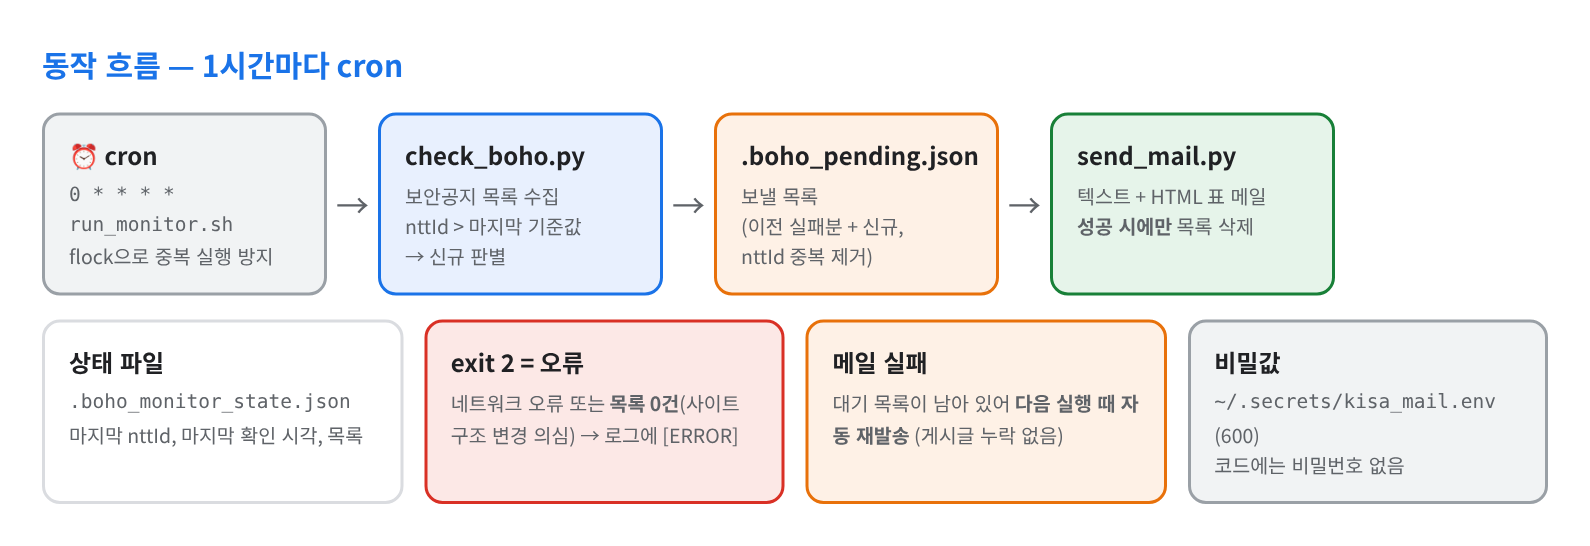
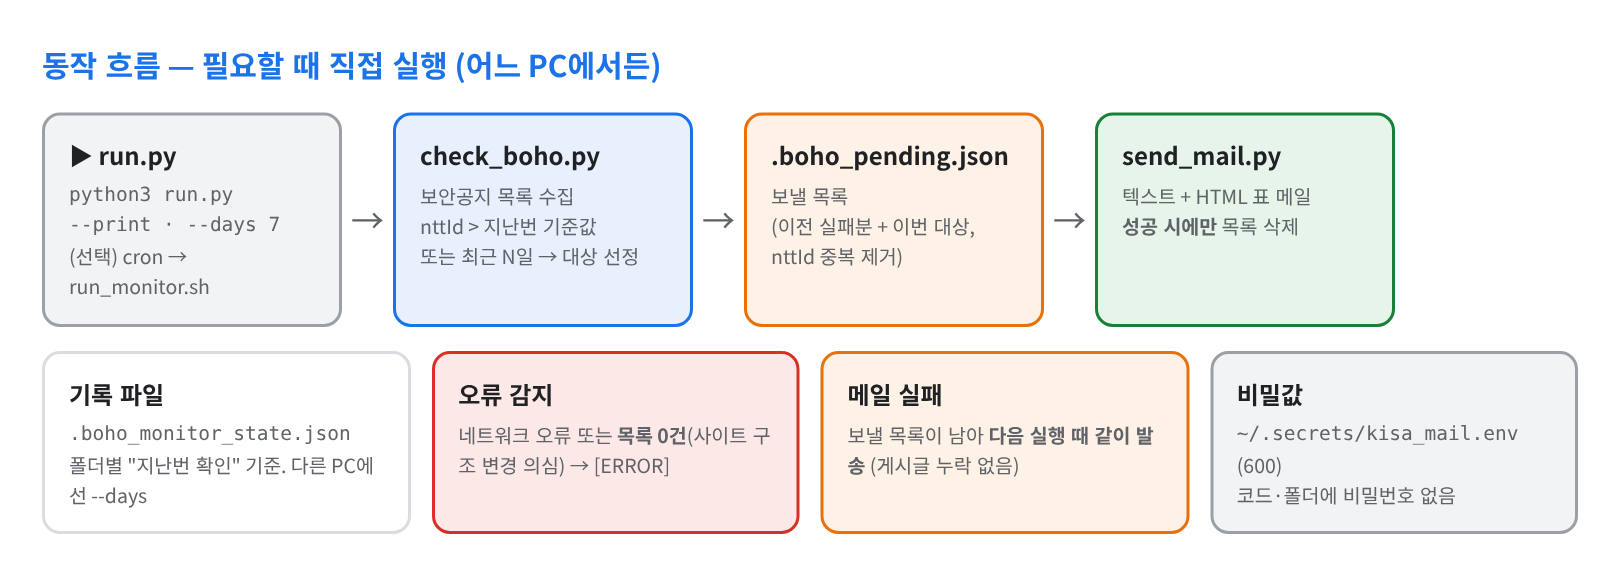
아이디 변경(hwang-taeun) 반영, KISA 스킬 페이지 최신화

Changed region(s): [[0.0308, 0.1868, 0.9862, 0.8718], [0.0308, 0.9029, 0.9862, 0.9341], [0.0308, 0.0934, 0.4006, 0.1557]]

diff --git a/skills/kisa-boho-monitor/index.html b/skills/kisa-boho-monitor/index.html
@@ -1,8 +1,8 @@
 ---
-title: KISA 보호나라 보안공지 자동 모니터링 — Python · cron · SMTP
+title: KISA 보호나라 보안공지 모니터링 — Python · SMTP
 skill_group: 자동화 스크립트
 skill_order: 48
-skill: KISA 보호나라 보안공지를 1시간마다 확인해 새 글을 메일로 알림 — 실패 시 재발송, 비밀값 분리, 오류 감지
+skill: KISA 보호나라 보안공지 새 글을 찾아 메일로 정리 — 어느 PC에서든 실행, 실패 시 재발송, 비밀값 분리, 인증서 검증
 link_label: 보안공지 모니터링 상세
 ---
 <!DOCTYPE html>
@@ -10,8 +10,8 @@ link_label: 보안공지 모니터링 상세
 <head>
   <meta charset="UTF-8" />
   <meta name="viewport" content="width=device-width, initial-scale=1.0"/>
-  <title>KISA 보호나라 보안공지 자동 모니터링 — 황태운</title>
-  <meta name="description" content="KISA 보호나라 보안공지 게시판을 cron으로 1시간마다 확인해 신규 공지를 HTML 표 메일로 알리는 Python 스크립트. 메일 실패 시 재발송, 비밀번호 분리, 사이트 구조 변경 감지, 중복 실행 방지" />
+  <title>KISA 보호나라 보안공지 모니터링 — 황태운</title>
+  <meta name="description" content="KISA 보호나라 보안공지에서 지난번 확인 이후 새 글이나 최근 N일 글을 찾아 HTML 표 메일로 보내는 Python 스크립트. 어느 PC에서든 실행, 메일 실패 시 재발송, 비밀번호 분리, 호스팅 메일 인증서 이름 불일치 해결" />
   <meta name="theme-color" content="#1a73e8" />
   <link rel="icon" href="/favicon.ico" sizes="any" />
   <link rel="icon" href="/favicon.svg" type="image/svg+xml" />
@@ -38,22 +38,23 @@ link_label: 보안공지 모니터링 상세
 
     <header>
       <p class="tagline">업무 자동화 · 보안 운영</p>
-      <h1>KISA 보호나라 보안공지 자동 모니터링</h1>
-      <p class="lead">서버·장비 취약점 대응을 하려면 KISA 보호나라의 보안공지(제품별 보안 업데이트 권고)를 매일 확인해야 합니다. 사람이 들어가서 보다 보면 놓치는 날이 생겨서, <strong>1시간마다 게시판을 확인해 새 글이 올라오면 메일로 알려주는 스크립트</strong>를 Python 표준 라이브러리만으로 만들어 운영하고 있습니다.</p>
+      <h1>KISA 보호나라 보안공지 모니터링</h1>
+      <p class="lead">서버·장비 취약점 대응을 하려면 KISA 보호나라의 보안공지(제품별 보안 업데이트 권고)를 매일 확인해야 합니다. 매번 사이트에 들어가 어디까지 봤는지 기억하는 게 번거로워서, <strong>실행하면 지난번 확인 이후 새 글(또는 최근 N일 글)을 찾아 메일 한 통으로 정리해 주는 스크립트</strong>를 Python 표준 라이브러리만으로 만들었습니다. 설치할 패키지가 없어 Linux · WSL · Windows 어느 PC에서든 폴더째 옮겨 쓰고, 필요하면 cron에 등록해 자동 감시로도 쓸 수 있습니다.</p>
       <p class="note">회사 메일 서버·계정 정보는 페이지에서 뺐고, 아래 메일·로그 화면은 <strong>예시 데이터</strong>로 만든 것입니다.</p>
     </header>
 
     <section>
       <h2>1. 동작 흐름</h2>
       <figure class="screenshot">
-        <img src="images/01-flow.png" alt="cron이 1시간마다 run_monitor.sh 실행, check_boho.py가 목록을 수집해 신규 판별, 보낼 목록 파일에 추가, send_mail.py가 메일 발송 후 성공 시에만 목록 삭제. 오류는 exit 2, 메일 실패 시 다음 실행 때 재발송, 비밀값은 ~/.secrets에 분리" loading="lazy" />
+        <img src="images/01-flow.png" alt="run.py를 직접 실행(선택: cron), check_boho.py가 목록을 수집해 신규 판별, 보낼 목록 파일에 추가, send_mail.py가 메일 발송 후 성공 시에만 목록 삭제. 오류는 exit 2, 메일 실패 시 다음 실행 때 재발송, 비밀값은 ~/.secrets에 분리" loading="lazy" />
         <figcaption>"수집"과 "발송"을 나누고, 그 사이에 보낼 목록 파일을 둬서 메일이 실패해도 게시글이 사라지지 않게 함</figcaption>
       </figure>
       <div class="table-wrap">
         <table>
           <thead><tr><th>파일</th><th>역할</th></tr></thead>
           <tbody>
-            <tr><td><code>run_monitor.sh</code></td><td>cron 진입점. <code>flock</code>으로 중복 실행 방지, 보낼 목록이 있으면 발송 스크립트 실행</td></tr>
+            <tr><td><code>run.py</code></td><td>직접 실행하는 진입점. <code>--print</code>(화면만), <code>--days N</code>(최근 N일)</td></tr>
+            <tr><td><code>run_monitor.sh</code></td><td>(선택) cron 자동 실행용. <code>flock</code>으로 중복 실행 방지</td></tr>
             <tr><td><code>check_boho.py</code></td><td>보안공지 목록 페이지를 받아 번호·제목·날짜·링크 파싱 → 마지막으로 본 글 번호(nttId)보다 큰 글을 신규로 판단</td></tr>
             <tr><td><code>send_mail.py</code></td><td>보낼 목록을 텍스트 + HTML 표 메일로 발송, <strong>성공했을 때만</strong> 목록 삭제</td></tr>
             <tr><td><code>common.py</code></td><td>설정 파일 읽기, TLS 설정, JSON 안전 저장(임시 파일 → 교체)</td></tr>
@@ -80,9 +81,11 @@ link_label: 보안공지 모니터링 상세
           </tbody>
         </table>
       </div>
-      <pre><code>python3 check_boho.py --init    # 처음 1회: 현재 목록을 기준으로 저장
-python3 check_boho.py --list    # 마지막으로 본 목록, 메일 대기 건수
-python3 check_boho.py           # 신규 확인 (cron)</code></pre>
+      <pre><code>python3 run.py                  # 지난번 확인 이후 새 글 → 메일
+python3 run.py --print          # 화면에만 표시 (메일·기록 변경 없음)
+python3 run.py --days 7         # 최근 7일 글 → 메일 (다른 PC에서 처음 쓸 때)
+python3 check_boho.py --list    # 마지막으로 본 목록, 메일 대기 건수</code></pre>
+      <p>"지난번 확인" 기록은 실행한 폴더에 저장되므로 PC마다 따로입니다. 그래서 다른 PC에서는 <code>--days</code>로 기간을 지정합니다. 오래 실행하지 않아 첫 페이지가 모두 새 글이면, 그 이전 글이 더 있을 수 있다고 화면에 알려 줍니다.</p>
     </section>
 
     <section>
@@ -108,7 +111,8 @@ python3 check_boho.py           # 신규 확인 (cron)</code></pre>
             <tr><td>메일 비밀번호</td><td class="before">코드에 직접 작성</td><td class="after">~/.secrets/kisa_mail.env (600)로 분리, 권한이 넓으면 경고</td></tr>
             <tr><td>메일 실패</td><td class="before">기준값을 먼저 올려 실패한 게시글이 다시는 안 보내짐</td><td class="after">보낼 목록에 먼저 저장 → 발송 성공 시에만 삭제, 실패분은 다음 실행 때 신규와 합쳐 재발송</td></tr>
             <tr><td>사이트 구조 변경</td><td class="before">파싱 0건도 "신규 없음"과 같은 exit 1</td><td class="after">exit 2 + <code>[ERROR]</code> 로그로 구분</td></tr>
-            <tr><td>TLS 인증서 검증</td><td class="before">수집·메일 모두 검증 끔</td><td class="after">기본은 검증. 사내 SSL 검사 장비가 있으면 그 루트 CA 파일을 지정, 검증 끄기는 설정으로만</td></tr>
+            <tr><td>TLS 인증서 검증</td><td class="before">수집·메일 모두 검증 끔</td><td class="after">기본은 검증. 메일 서버 이름 불일치는 원인을 찾아 해결 (아래)</td></tr>
+            <tr><td>실행 방식</td><td class="before">한 PC의 cron에 고정</td><td class="after">어느 PC에서든 <code>run.py</code>로 직접 실행, 최근 N일 모드 추가</td></tr>
             <tr><td>중복 실행</td><td class="before">이전 실행이 길어지면 겹쳐 실행</td><td class="after"><code>flock -n</code>으로 건너뜀</td></tr>
             <tr><td>상태 파일</td><td class="before">직접 덮어쓰기 (중단 시 깨질 수 있음)</td><td class="after">임시 파일에 쓰고 <code>os.replace</code>로 교체</td></tr>
             <tr><td>SMTP 접속</td><td class="before">로그인 테스트용 접속 + 발송용 접속 2번</td><td class="after">발송 때 1번. 점검은 <code>--check</code> 옵션으로 따로</td></tr>
@@ -116,11 +120,19 @@ python3 check_boho.py           # 신규 확인 (cron)</code></pre>
           </tbody>
         </table>
       </div>
-      <div class="warn"><code>TLS_VERIFY=0</code>(검증 끄기)로 두면 중간에서 인증서를 바꿔치기해도 알 수 없어, 메일 계정 비밀번호가 노출될 수 있습니다. 사내 SSL 검사 장비 때문에 검증이 실패하면 검증을 끄기보다 그 장비의 루트 CA를 <code>*_CA_FILE</code>에 지정하는 것이 맞습니다.</div>
+      <h3>메일 서버 인증서 이름 불일치 — 검증을 끄지 않고 해결</h3>
+      <p>인증서 검증을 켜자 회사 메일 서버(<code>mail.회사도메인</code>) 접속이 <code>Hostname mismatch</code>로 실패했습니다. 처음 버전이 검증을 꺼 둔 이유도 이것이었습니다. 원인을 확인한 순서는 다음과 같습니다.</p>
+      <ol>
+        <li>발급 기관 검증만 켜고 인증서 내용을 보니 정식 인증서(Sectigo)인데 이름이 <code>*.호스팅업체.net</code></li>
+        <li>IP 역방향 조회 → 메일 호스팅 업체의 공용 서버. 회사 도메인은 그 서버를 가리키는 <strong>별칭</strong>일 뿐</li>
+        <li>같은 IP를 가리키는 호스팅 업체 쪽 고객사 주소(<code>회사명.호스팅업체.net</code>)를 찾아 <strong>이름·발급 기관 모두 검증 통과</strong> 확인</li>
+        <li><code>SMTP_HOST</code>만 그 주소로 바꿔 검증을 켠 채로 발송</li>
+      </ol>
+      <div class="warn">검증을 끄면(<code>TLS_VERIFY=0</code>) 중간에서 인증서를 바꿔치기해도 알 수 없어, 로그인할 때 메일 계정 비밀번호가 노출될 수 있습니다. 이름 불일치는 대부분 이렇게 "어느 이름으로 접속해야 하는지"의 문제라, 끄기 전에 원인을 확인하는 것이 맞습니다.</div>
     </section>
 
     <section>
-      <h2>5. 설치와 운영</h2>
+      <h2>5. 설치와 사용</h2>
       <pre><code>APP=$HOME/kisa_Craw
 cd "$APP"
 mkdir -p ~/.secrets logs &amp;&amp; chmod 700 ~/.secrets
@@ -128,12 +140,14 @@ cp kisa_mail.env.example ~/.secrets/kisa_mail.env &amp;&amp; chmod 600 ~/.secret
 vi ~/.secrets/kisa_mail.env              # SMTP 서버·계정·받는 사람
 
 python3 send_mail.py --check             # SMTP 로그인만 확인 (발송 안 함)
-python3 check_boho.py --init             # 기준값 저장
-crontab -e
-0 * * * * /home/taeun/kisa_Craw/run_monitor.sh &gt;&gt; /home/taeun/kisa_Craw/logs/monitor.log 2&gt;&amp;1</code></pre>
+python3 run.py --days 3 --print          # 최근 3일 글 미리보기
+python3 run.py                           # 새 글 → 메일
+
+# (선택) 자동 실행: crontab
+# 0 * * * * $APP/run_monitor.sh &gt;&gt; $APP/logs/monitor.log 2&gt;&amp;1</code></pre>
       <figure class="screenshot">
         <img src="images/03-log.png" alt="로그 예시: 9시 신규 2건 발견 후 메일 발송 실패, 10시 신규 1건과 합쳐 3건 발송 완료, 12시 게시글 0건 파싱 오류" loading="lazy" />
-        <figcaption>9시에 메일이 실패한 2건이 10시 신규 1건과 합쳐져 3건으로 재발송된 흐름 (예시)</figcaption>
+        <figcaption>cron으로 자동 실행할 때의 로그 예시 — 9시에 메일이 실패한 2건이 10시 신규 1건과 합쳐져 3건으로 재발송</figcaption>
       </figure>
       <pre><code>grep ERROR logs/monitor.log | tail      # 실패만 보기
 python3 send_mail.py --dry-run          # 대기 중인 메일 내용을 발송 없이 확인</code></pre>
@@ -146,9 +160,10 @@ python3 send_mail.py --dry-run          # 대기 중인 메일 내용을 발송 
         <table>
           <thead><tr><th>한계</th><th>다음 단계</th></tr></thead>
           <tbody>
-            <tr><td>목록 <strong>첫 페이지만</strong> 확인 — 1시간 안에 한 페이지보다 많은 글이 올라오면 일부 누락 가능</td><td>신규가 페이지 전체를 채우면 다음 페이지까지 확인</td></tr>
+            <tr><td>목록 <strong>첫 페이지만</strong> 확인 — 오래 실행하지 않으면 그 이전 새 글이 빠질 수 있음 (현재는 화면에 경고만)</td><td>첫 페이지가 모두 새 글이면 다음 페이지까지 자동 확인</td></tr>
             <tr><td>HTML을 정규식으로 파싱 — 사이트 개편 시 수정 필요 (대신 exit 2로 바로 알 수 있음)</td><td>연속 오류 시 관리자에게 별도 알림 메일</td></tr>
             <tr><td>영향 제품·버전은 원문을 직접 봐야 함</td><td>원문 본문에서 제품명을 뽑아 <strong>우리 자산 목록과 대조</strong>해 해당 여부 표시</td></tr>
+            <tr><td>"지난번 확인" 기록이 PC마다 따로</td><td>기록 파일을 동기화 폴더(NAS 등)에 두는 옵션</td></tr>
             <tr><td>메일로만 알림</td><td>Slack·Teams 웹훅 추가</td></tr>
           </tbody>
         </table>

diff --git a/index.html b/index.html
@@ -179,11 +179,11 @@
       <ul class="contact-list">
         <li>
           <span>GitHub</span>
-          <a href="https://github.com/Taeun-Hwang" target="_blank" rel="noopener">github.com/Taeun-Hwang</a>
+          <a href="https://github.com/hwang-taeun" target="_blank" rel="noopener">github.com/hwang-taeun</a>
         </li>
         <li>
           <span>포트폴리오</span>
-          <a href="https://github.com/Taeun-Hwang/taeun-hwang.github.io" target="_blank" rel="noopener">taeun-hwang.github.io 저장소</a>
+          <a href="https://github.com/hwang-taeun/hwang-taeun.github.io" target="_blank" rel="noopener">hwang-taeun.github.io 저장소</a>
         </li>
       </ul>
     </section>

diff --git a/README.md b/README.md
@@ -11,10 +11,10 @@ Linux·Windows Server 운영을 바탕으로 **보안 점검·하드닝, 장애 
 
 | 페이지 | 주소 |
 |--------|------|
-| 메인 | https://taeun-hwang.github.io/ |
-| 스킬 상세 | https://taeun-hwang.github.io/skill.html |
-| 대표 프로젝트 | https://taeun-hwang.github.io/projects.html |
-| 이력서 (PDF) | https://taeun-hwang.github.io/assets/resume.pdf |
+| 메인 | https://hwang-taeun.github.io/ |
+| 스킬 상세 | https://hwang-taeun.github.io/skill.html |
+| 대표 프로젝트 | https://hwang-taeun.github.io/projects.html |
+| 이력서 (PDF) | https://hwang-taeun.github.io/assets/resume.pdf |
 
 ---
 
@@ -23,28 +23,28 @@ Linux·Windows Server 운영을 바탕으로 **보안 점검·하드닝, 장애 
 ### OS & 시스템 관리
 - **Linux**: Rocky 9, RHEL, CentOS, Ubuntu / **Windows Server**: 2016, 2019, 2022, AD·Group Policy
 - WSL 2, WinPE, DISM, 레지스트리 자동화 / KVM·libvirt, OpenStack VM 운영
-- [네트워크 본딩 (nmcli·nmtui, active-backup·라운드로빈, 스위치 이중화)](https://taeun-hwang.github.io/skills/network-bonding/)
-- [rsync 데이터 이관 (데몬 모듈, 증분 동기화, 최종 전환·검증)](https://taeun-hwang.github.io/skills/rsync-migration/)
-- [사내 NTP 시간 서버 (chrony · W32Time, ntpd와 차이)](https://taeun-hwang.github.io/skills/ntp-chrony/)
-- [DB 이전 (MySQL 문자셋 유지 덤프 · MS-SQL .bak 복원·고아 사용자)](https://taeun-hwang.github.io/skills/db-migration/)
-- [백업 솔루션 운영 (NetVault · NetBackup 클라이언트 연동·복원)](https://taeun-hwang.github.io/skills/backup-netvault-netbackup/)
+- [네트워크 본딩 (nmcli·nmtui, active-backup·라운드로빈, 스위치 이중화)](https://hwang-taeun.github.io/skills/network-bonding/)
+- [rsync 데이터 이관 (데몬 모듈, 증분 동기화, 최종 전환·검증)](https://hwang-taeun.github.io/skills/rsync-migration/)
+- [사내 NTP 시간 서버 (chrony · W32Time, ntpd와 차이)](https://hwang-taeun.github.io/skills/ntp-chrony/)
+- [DB 이전 (MySQL 문자셋 유지 덤프 · MS-SQL .bak 복원·고아 사용자)](https://hwang-taeun.github.io/skills/db-migration/)
+- [백업 솔루션 운영 (NetVault · NetBackup 클라이언트 연동·복원)](https://hwang-taeun.github.io/skills/backup-netvault-netbackup/)
 
 ### 웹 & 네트워크 서비스
 - Apache, Nginx, IIS, PHP, MariaDB, SSL 인증서 / 리버스 프록시(SSL 종료), 가상호스트
 - Let's Encrypt (HTTP-01 / DNS-01, acme.sh), Cloudflare DNS API 자동화
-- [DNS 레코드 정리](https://taeun-hwang.github.io/skills/dns-records/) · [SPF 메일 인증](https://taeun-hwang.github.io/skills/spf-mail-auth/)
-- [사내 재귀 DNS (Unbound · Windows DNS)](https://taeun-hwang.github.io/skills/dns-resolver/)
-- [Ollama 로컬 LLM 구축 및 웹 연동](https://taeun-hwang.github.io/skills/ollama/)
+- [DNS 레코드 정리](https://hwang-taeun.github.io/skills/dns-records/) · [SPF 메일 인증](https://hwang-taeun.github.io/skills/spf-mail-auth/)
+- [사내 재귀 DNS (Unbound · Windows DNS)](https://hwang-taeun.github.io/skills/dns-resolver/)
+- [Ollama 로컬 LLM 구축 및 웹 연동](https://hwang-taeun.github.io/skills/ollama/)
 
 ### 고가용성(HA) & 컨테이너
 - MariaDB Galera, Pacemaker, Podman·kind (대표 프로젝트 참고)
 
 ### 보안 점검·하드닝
 - KISA 기준 취약점 점검·조치 (Linux·Windows Server)
-- [PAM 비밀번호 정책 (authselect, faillock)](https://taeun-hwang.github.io/skills/pam-password-policy/)
-- [계정별 접속 IP 제한 (pam_access, SSH·FTP)](https://taeun-hwang.github.io/skills/pam-access/)
-- [방화벽·IPS 정책 운영 (Palo Alto · SRX · Snort)](https://taeun-hwang.github.io/skills/firewall-ips/)
-- [Coraza + Caddy WAF (ModSecurity 대안)](https://taeun-hwang.github.io/skills/coraza-caddy-waf/)
+- [PAM 비밀번호 정책 (authselect, faillock)](https://hwang-taeun.github.io/skills/pam-password-policy/)
+- [계정별 접속 IP 제한 (pam_access, SSH·FTP)](https://hwang-taeun.github.io/skills/pam-access/)
+- [방화벽·IPS 정책 운영 (Palo Alto · SRX · Snort)](https://hwang-taeun.github.io/skills/firewall-ips/)
+- [Coraza + Caddy WAF (ModSecurity 대안)](https://hwang-taeun.github.io/skills/coraza-caddy-waf/)
 - 로그 파일 권한 최소화, RDP 세션 타임아웃 (레지스트리/GPO)
 
 ### 로그 모니터링·알림
@@ -52,13 +52,13 @@ Linux·Windows Server 운영을 바탕으로 **보안 점검·하드닝, 장애 
 - RDP 접근 감지 → 문자 알림 (PowerShell)
 
 ### 장애 대응
-- [Linux 장애 처리 (부팅·파일시스템·서비스)](https://taeun-hwang.github.io/skills/linux-troubleshooting/)
-- [RAID Write Back 캐시로 인한 /boot 손상 복구](https://taeun-hwang.github.io/skills/raid-boot-recovery/)
+- [Linux 장애 처리 (부팅·파일시스템·서비스)](https://hwang-taeun.github.io/skills/linux-troubleshooting/)
+- [RAID Write Back 캐시로 인한 /boot 손상 복구](https://hwang-taeun.github.io/skills/raid-boot-recovery/)
 
 ### 자동화 스크립트
 - Bash(백업, 로그 순환, 서비스·포트 점검), PowerShell(이벤트 감시, 시간 동기화), Python
 - rsync, inotify, systemd 타이머, crontab
-- [Ansible 서버 자동화](https://taeun-hwang.github.io/skills/ansible/) · [프라이빗 Git 서버 (Apache Smart HTTP)](https://taeun-hwang.github.io/skills/git-server/)
+- [Ansible 서버 자동화](https://hwang-taeun.github.io/skills/ansible/) · [프라이빗 Git 서버 (Apache Smart HTTP)](https://hwang-taeun.github.io/skills/git-server/)
 
 ---
 
@@ -66,23 +66,23 @@ Linux·Windows Server 운영을 바탕으로 **보안 점검·하드닝, 장애 
 
 | 프로젝트 | 설명 |
 |----------|------|
-| [중앙 로그 서버 구축](https://taeun-hwang.github.io/projects/log-server/) | rsyslog + Windows 이벤트 수집기로 호스트·로그별 일자 파일 보관 |
-| [폐쇄망 Windows 패치 서버](https://taeun-hwang.github.io/projects/wsus-offline/) | WSUS export/import 반입, 허용 클라이언트 제한, 그룹별 승인 |
-| [서버 장애 SMS 알림](https://taeun-hwang.github.io/projects/server-alert/) | bash 점검 + ELK 중앙 감시 → 알리고/textbee 문자 알림 |
-| [홈서버 구축](https://taeun-hwang.github.io/projects/home-server/) | Cloudflare DNS API DDNS, acme.sh DNS-01로 Synology 인증서 무인 갱신 |
-| [채용공고 모니터링 크롤러](https://taeun-hwang.github.io/projects/recruit-crawler/) | mitmproxy로 내부 API 분석·재현, 신규 공고만 메일 알림 |
-| [SSL 리버스 프록시](https://taeun-hwang.github.io/projects/ssl-proxy/) | SSL 종료·재암호화·로드밸런싱으로 백엔드 단순화 |
-| [ModSecurity WAF 차단 페이지](https://taeun-hwang.github.io/projects/modsecurity-waf/) | 차단 안내 페이지와 감사 로그 연동 |
-| [GeoIP 국가 접근 제어](https://taeun-hwang.github.io/projects/geoip-block/) | ModSecurity GeoIP로 국가 단위 차단 |
-| [AbuseIPDB 기반 악성 IP 차단](https://taeun-hwang.github.io/projects/abuseipdb/) | API로 악성 IP 수집 후 Apache 규칙 자동 갱신 |
-| [중앙 인증 (SSSD + LDAP/AD + RADIUS)](https://taeun-hwang.github.io/projects/central-auth/) | 서버별 로컬 계정 대신 중앙 계정으로 SSH 통합 |
-| [MariaDB Galera HA](https://taeun-hwang.github.io/projects/galera-ha/) | Active-Active DB 이중화 |
-| [Pacemaker 웹 HA](https://taeun-hwang.github.io/projects/pacemaker-ha/) | Pacemaker + httpd 장애 조치 |
-| [Podman · Kubernetes HA](https://taeun-hwang.github.io/projects/podman-kind/) | Podman 컨테이너와 kind 기반 HA 실습 |
-| [CI/CD 배포 자동화](https://taeun-hwang.github.io/projects/cicd-polling/) | 접근제어 환경에서 Gitea + Polling Agent 배포 |
-| [침해사고 메모리 분석](https://taeun-hwang.github.io/projects/memory-forensics/) | IIS 웹 서버 메모리 덤프 분석 |
+| [중앙 로그 서버 구축](https://hwang-taeun.github.io/projects/log-server/) | rsyslog + Windows 이벤트 수집기로 호스트·로그별 일자 파일 보관 |
+| [폐쇄망 Windows 패치 서버](https://hwang-taeun.github.io/projects/wsus-offline/) | WSUS export/import 반입, 허용 클라이언트 제한, 그룹별 승인 |
+| [서버 장애 SMS 알림](https://hwang-taeun.github.io/projects/server-alert/) | bash 점검 + ELK 중앙 감시 → 알리고/textbee 문자 알림 |
+| [홈서버 구축](https://hwang-taeun.github.io/projects/home-server/) | Cloudflare DNS API DDNS, acme.sh DNS-01로 Synology 인증서 무인 갱신 |
+| [채용공고 모니터링 크롤러](https://hwang-taeun.github.io/projects/recruit-crawler/) | mitmproxy로 내부 API 분석·재현, 신규 공고만 메일 알림 |
+| [SSL 리버스 프록시](https://hwang-taeun.github.io/projects/ssl-proxy/) | SSL 종료·재암호화·로드밸런싱으로 백엔드 단순화 |
+| [ModSecurity WAF 차단 페이지](https://hwang-taeun.github.io/projects/modsecurity-waf/) | 차단 안내 페이지와 감사 로그 연동 |
+| [GeoIP 국가 접근 제어](https://hwang-taeun.github.io/projects/geoip-block/) | ModSecurity GeoIP로 국가 단위 차단 |
+| [AbuseIPDB 기반 악성 IP 차단](https://hwang-taeun.github.io/projects/abuseipdb/) | API로 악성 IP 수집 후 Apache 규칙 자동 갱신 |
+| [중앙 인증 (SSSD + LDAP/AD + RADIUS)](https://hwang-taeun.github.io/projects/central-auth/) | 서버별 로컬 계정 대신 중앙 계정으로 SSH 통합 |
+| [MariaDB Galera HA](https://hwang-taeun.github.io/projects/galera-ha/) | Active-Active DB 이중화 |
+| [Pacemaker 웹 HA](https://hwang-taeun.github.io/projects/pacemaker-ha/) | Pacemaker + httpd 장애 조치 |
+| [Podman · Kubernetes HA](https://hwang-taeun.github.io/projects/podman-kind/) | Podman 컨테이너와 kind 기반 HA 실습 |
+| [CI/CD 배포 자동화](https://hwang-taeun.github.io/projects/cicd-polling/) | 접근제어 환경에서 Gitea + Polling Agent 배포 |
+| [침해사고 메모리 분석](https://hwang-taeun.github.io/projects/memory-forensics/) | IIS 웹 서버 메모리 덤프 분석 |
 
-전체 목록은 [대표 프로젝트](https://taeun-hwang.github.io/projects.html) 페이지에서 볼 수 있습니다.
+전체 목록은 [대표 프로젝트](https://hwang-taeun.github.io/projects.html) 페이지에서 볼 수 있습니다.
 
 ---
 
